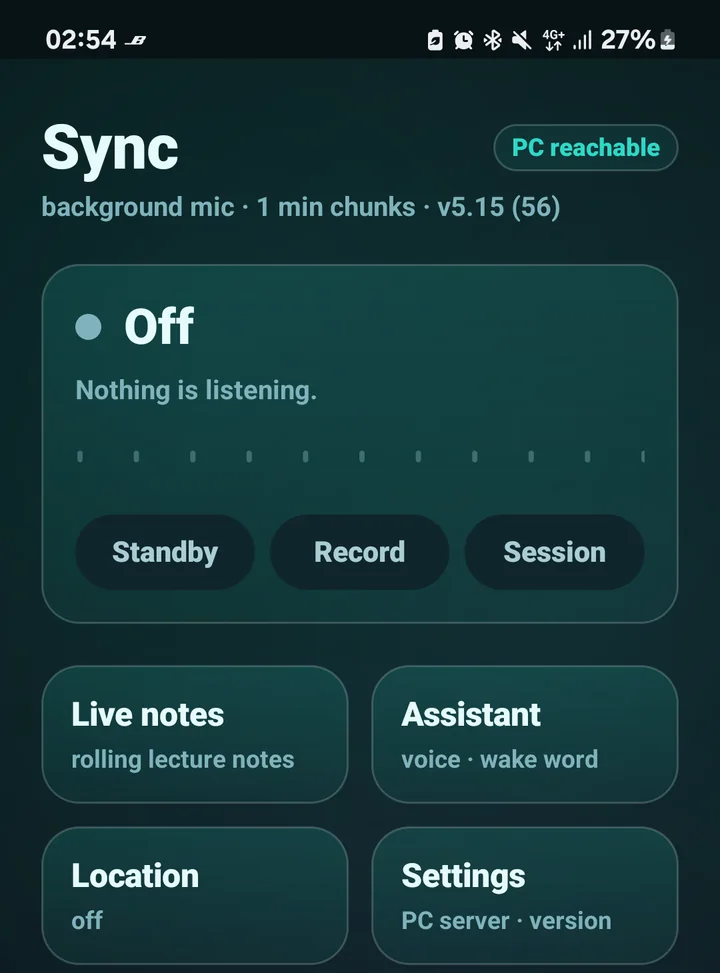
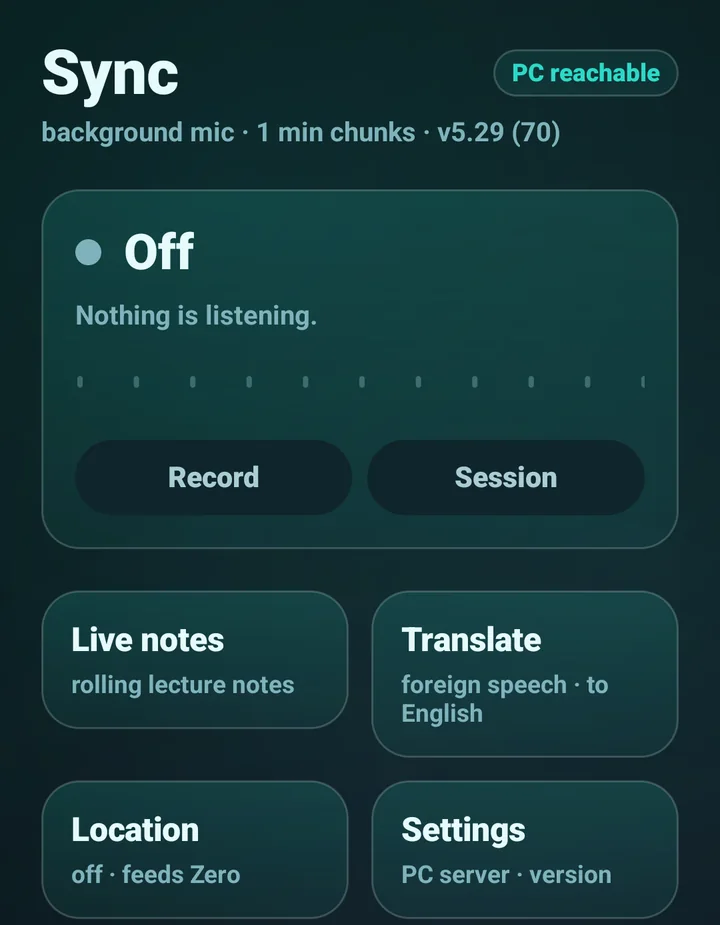
v9: fresh screenshots for all four apps, numbers re-derived from live sources

diff --git a/index.html b/index.html
@@ -226,12 +226,12 @@
 
     <article class="card">
       <figure class="card-media">
-        <img src="assets/sync.webp" alt="The Sync app on Android: a status card with Standby, Record and Session controls, and tiles for live notes, the assistant, location and settings.">
+        <img src="assets/sync.webp" alt="The Sync app on Android: a status card reading Off, with nothing listening, plus Record and Session buttons and tiles for live notes, translation, location and settings.">
       </figure>
       <div class="card-body">
         <div class="status live">Live</div>
         <h3>Voice assistant, self-hosted</h3>
-        <p>Ask a question with headphones in and hear the answer. It answers personal questions from my own notes, does live web lookups, reports my location and routes to it, and turns voice commands into reminders. The phone captures the audio, a service on my PC transcribes and answers, and the reply is spoken back.</p>
+        <p>Ask a question with headphones in and hear the answer. It answers personal questions from my own notes, does live web lookups, translates foreign speech on the fly, reports my location and routes to it, and turns voice commands into reminders. The phone captures the audio, a service on my PC transcribes and answers, and the reply is spoken back.</p>
         <p class="stats">9,700+ logged exchanges <span>&middot;</span> ~1 second to answer <span>&middot;</span> speech in and out</p>
         <p class="note">The tricky part was getting speech, lookups and my own notes to work together fast enough to be useful.</p>
       </div>
@@ -239,33 +239,33 @@
 
     <article class="card">
       <figure class="card-media">
-        <img src="assets/zero.webp" alt="The Zero app on Android: a status card reading Zero off, a Start Zero button and voice controls.">
+        <img src="assets/zero.webp" alt="The Zero app on Android: the Cockpit screen with a memory card, an ask-anything box, and live rows for what it heard and the next class.">
       </figure>
       <div class="card-body">
         <div class="status">Built and in use</div>
         <h3>Zero, my assistant's own app</h3>
         <p>The self-hosted assistant split into a dedicated Android app: a live dashboard, an ask-anything box, and an "Inside Zero" screen for its own limits, reports and an undo for anything it changed. The phone is the window; the assistant and everything it knows run on my own machines.</p>
-        <p class="stats">v1.46 <span>&middot;</span> dashboard, ask box, voice controls</p>
+        <p class="stats">v1.48 <span>&middot;</span> dashboard, ask box, voice controls</p>
         <p class="note">The app and the service behind it are mine.</p>
       </div>
     </article>
 
     <article class="card">
       <figure class="card-media">
-        <img src="assets/resort.webp" alt="The Resort revision app on Android: a multiple-choice card on log laws with Again, Hard, Good and Easy options.">
+        <img src="assets/resort.webp" alt="The Resort revision app on Android: a stats card with a one-day streak, and a lesson timeline showing the next lesson and what it will cover.">
       </figure>
       <div class="card-body">
         <div class="status">Built and in use</div>
         <h3>Resort, a spaced-repetition revision app</h3>
-        <p>An Android app written from scratch for exam revision. I wrote all the card content myself: exam-level cards, spaced repetition on the FSRS-6 algorithm, an auto-graded multiple-choice mode, and full offline use.</p>
-        <p class="stats">1,318 cards across 20 decks <span>&middot;</span> 1,020 auto-graded questions <span>&middot;</span> fully offline</p>
+        <p>An Android app written from scratch for exam revision. I wrote all the card content myself: exam-level cards, spaced repetition on the FSRS-6 algorithm, an auto-graded multiple-choice mode, and full offline use. A lesson timeline pulls the teacher's own topic entries in and shows what is coming next.</p>
+        <p class="stats">1,851 cards across 27 decks <span>&middot;</span> 1,537 auto-graded questions <span>&middot;</span> fully offline</p>
         <p class="note">The app and all the card content are mine.</p>
       </div>
     </article>
 
     <article class="card">
       <figure class="card-media">
-        <img src="assets/notes.webp" alt="The Notes app on Android: capture tabs for notes, reminders, ask and dump, a compose box, and tag filters.">
+        <img src="assets/notes.webp" alt="The Notes app on Android: a new-note sheet with Note and Dump modes, Idea and To-do tags, a compose box that takes slash commands, and Save, digest and Voice buttons.">
       </figure>
       <div class="card-body">
         <div class="status">Built and in use</div>
@@ -302,7 +302,7 @@
       </div>
       <div class="mini">
         <h3>Home infrastructure</h3>
-        <p>A Windows PC and an Arch Linux laptop kept in sync over a private mesh, running 45 scheduled tasks: remote access, file sync, backup, phone photos into a self-hosted timeline, and watchdog scripts that repair the setup when something breaks. There's a small Minecraft server on a cloud box too.</p>
+        <p>A Windows PC and an Arch Linux laptop kept in sync over a private mesh, running 70+ scheduled tasks: remote access, file sync, backup, phone photos into a self-hosted timeline, and watchdog scripts that repair the setup when something breaks. There's a small Minecraft server on a cloud box too.</p>
       </div>
       <div class="mini">
         <h3>Fuel, calorie tracker</h3>
